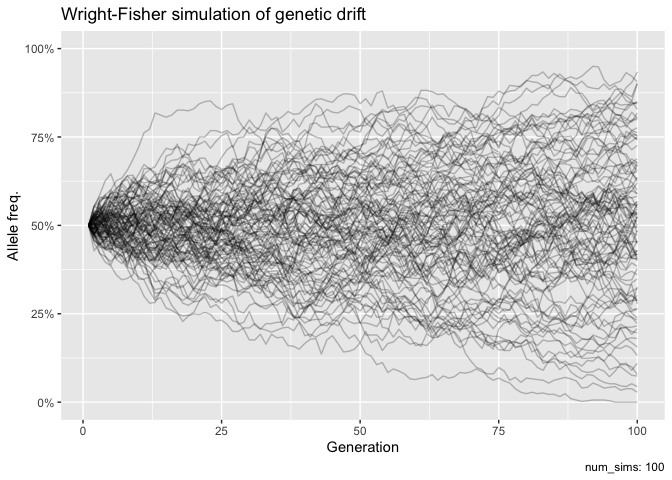
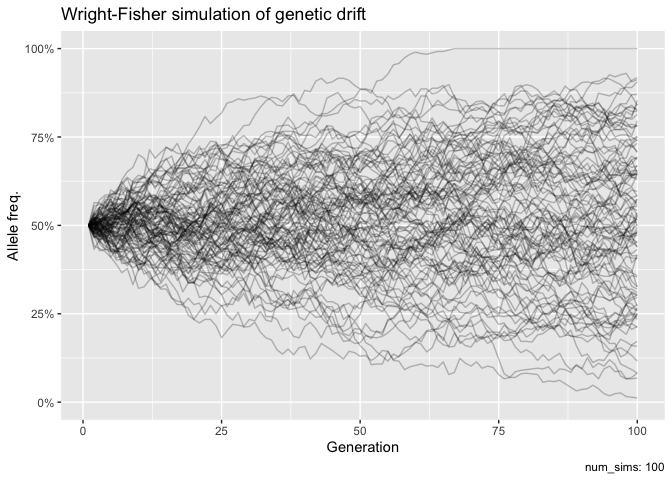
First shiny app

Changed region(s): [[0.125, 0.125, 0.9688, 0.8438], [0.2188, 0.2188, 0.2812, 0.25], [0.625, 0.0938, 0.6562, 0.125]]

diff --git a/README.md b/README.md
@@ -30,15 +30,15 @@ frequency is `0.5`, and `100` generations are produced.
 
 ``` r
 wf_sim()
-#>   [1] 0.500 0.458 0.430 0.440 0.438 0.436 0.424 0.398 0.434 0.418 0.412 0.448
-#>  [13] 0.462 0.440 0.416 0.420 0.414 0.416 0.448 0.438 0.458 0.456 0.444 0.450
-#>  [25] 0.442 0.450 0.452 0.432 0.448 0.480 0.446 0.452 0.466 0.456 0.454 0.420
-#>  [37] 0.440 0.416 0.440 0.420 0.402 0.396 0.456 0.482 0.512 0.514 0.506 0.528
-#>  [49] 0.532 0.538 0.546 0.540 0.526 0.526 0.560 0.546 0.540 0.530 0.528 0.522
-#>  [61] 0.510 0.512 0.510 0.490 0.484 0.528 0.554 0.552 0.540 0.568 0.522 0.614
-#>  [73] 0.626 0.586 0.596 0.574 0.542 0.530 0.520 0.504 0.502 0.532 0.506 0.514
-#>  [85] 0.496 0.480 0.468 0.472 0.488 0.508 0.526 0.516 0.504 0.540 0.530 0.580
-#>  [97] 0.598 0.626 0.598 0.618
+#>   [1] 0.500 0.488 0.502 0.520 0.516 0.522 0.534 0.580 0.600 0.596 0.560 0.582
+#>  [13] 0.580 0.606 0.616 0.618 0.640 0.640 0.664 0.656 0.660 0.654 0.624 0.638
+#>  [25] 0.646 0.624 0.632 0.626 0.604 0.620 0.632 0.618 0.622 0.638 0.640 0.638
+#>  [37] 0.664 0.662 0.640 0.592 0.604 0.610 0.634 0.604 0.592 0.566 0.580 0.596
+#>  [49] 0.572 0.612 0.600 0.580 0.600 0.588 0.604 0.620 0.646 0.648 0.676 0.696
+#>  [61] 0.686 0.668 0.672 0.666 0.648 0.672 0.666 0.698 0.722 0.730 0.762 0.738
+#>  [73] 0.742 0.764 0.754 0.760 0.734 0.760 0.796 0.824 0.838 0.812 0.792 0.802
+#>  [85] 0.792 0.768 0.784 0.758 0.762 0.776 0.808 0.830 0.858 0.848 0.846 0.860
+#>  [97] 0.872 0.890 0.892 0.886
 ```
 
 No mutation rates or selection by default. Mutation can be simulated
@@ -46,15 +46,15 @@ like so:
 
 ``` r
 wf_sim(p = 1/250, mut_to = .8, mut_from = .1)
-#>   [1] 0.004 0.800 0.866 0.878 0.918 0.890 0.908 0.904 0.888 0.872 0.886 0.906
-#>  [13] 0.850 0.866 0.898 0.882 0.894 0.924 0.902 0.882 0.904 0.912 0.890 0.894
-#>  [25] 0.892 0.864 0.880 0.892 0.894 0.902 0.872 0.884 0.894 0.888 0.880 0.890
-#>  [37] 0.886 0.862 0.864 0.886 0.884 0.880 0.884 0.882 0.900 0.886 0.880 0.884
-#>  [49] 0.898 0.892 0.916 0.886 0.868 0.866 0.866 0.908 0.904 0.896 0.890 0.886
-#>  [61] 0.884 0.876 0.902 0.900 0.900 0.870 0.878 0.896 0.864 0.890 0.888 0.874
-#>  [73] 0.874 0.908 0.902 0.888 0.906 0.912 0.892 0.854 0.900 0.914 0.896 0.894
-#>  [85] 0.894 0.910 0.896 0.890 0.906 0.898 0.896 0.880 0.882 0.884 0.876 0.876
-#>  [97] 0.898 0.900 0.888 0.914
+#>   [1] 0.004 0.816 0.892 0.884 0.894 0.908 0.898 0.904 0.884 0.890 0.882 0.896
+#>  [13] 0.898 0.894 0.900 0.896 0.878 0.912 0.894 0.878 0.892 0.892 0.870 0.882
+#>  [25] 0.894 0.910 0.888 0.912 0.882 0.902 0.852 0.884 0.872 0.890 0.890 0.888
+#>  [37] 0.872 0.860 0.876 0.890 0.888 0.908 0.882 0.868 0.900 0.888 0.886 0.886
+#>  [49] 0.902 0.896 0.900 0.888 0.876 0.892 0.878 0.902 0.916 0.896 0.898 0.912
+#>  [61] 0.910 0.880 0.856 0.910 0.896 0.894 0.904 0.852 0.866 0.884 0.876 0.882
+#>  [73] 0.902 0.896 0.906 0.882 0.888 0.898 0.878 0.890 0.888 0.884 0.876 0.884
+#>  [85] 0.922 0.888 0.896 0.902 0.890 0.906 0.890 0.894 0.890 0.886 0.902 0.910
+#>  [97] 0.910 0.916 0.908 0.904
 ```
 
 Selection assumes a diploid organism, and genotype fitness is provided
@@ -63,23 +63,11 @@ for each:
 ``` r
 # Dominant selection for A:
 wf_sim(p = 1/250, fit_aa = .5)
-#>   [1] 0.004 0.008 0.014 0.036 0.050 0.094 0.172 0.238 0.326 0.438 0.502 0.566
-#>  [13] 0.640 0.664 0.654 0.720 0.758 0.774 0.806 0.832 0.832 0.830 0.888 0.890
-#>  [25] 0.894 0.884 0.920 0.930 0.926 0.926 0.930 0.942 0.956 0.970 0.966 0.974
-#>  [37] 0.964 0.964 0.968 0.956 0.970 0.960 0.962 0.966 0.962 0.960 0.958 0.974
-#>  [49] 0.964 0.970 0.972 0.970 0.966 0.966 0.974 0.968 0.968 0.958 0.966 0.956
-#>  [61] 0.942 0.948 0.950 0.952 0.948 0.936 0.938 0.940 0.944 0.942 0.928 0.928
-#>  [73] 0.920 0.926 0.926 0.930 0.938 0.950 0.950 0.954 0.956 0.962 0.952 0.954
-#>  [85] 0.958 0.962 0.972 0.974 0.970 0.980 0.976 0.978 0.980 0.978 0.978 0.978
-#>  [97] 0.988 0.990 0.992 0.992
-
-# Additive selection for A:
-wf_sim(p = 1/250, fit_Aa = .5, fit_aa = .25)
-#>   [1] 0.004 0.014 0.038 0.070 0.160 0.288 0.430 0.584 0.758 0.876 0.926 0.958
-#>  [13] 0.980 0.986 0.996 1.000 1.000 1.000 1.000 1.000 1.000 1.000 1.000 1.000
-#>  [25] 1.000 1.000 1.000 1.000 1.000 1.000 1.000 1.000 1.000 1.000 1.000 1.000
-#>  [37] 1.000 1.000 1.000 1.000 1.000 1.000 1.000 1.000 1.000 1.000 1.000 1.000
-#>  [49] 1.000 1.000 1.000 1.000 1.000 1.000 1.000 1.000 1.000 1.000 1.000 1.000
+#>   [1] 0.004 0.010 0.022 0.036 0.060 0.102 0.182 0.252 0.374 0.474 0.566 0.578
+#>  [13] 0.618 0.730 0.764 0.770 0.804 0.822 0.876 0.878 0.882 0.908 0.914 0.930
+#>  [25] 0.928 0.938 0.934 0.946 0.932 0.936 0.932 0.946 0.936 0.924 0.932 0.952
+#>  [37] 0.948 0.956 0.956 0.960 0.966 0.980 0.990 0.992 0.986 0.992 0.994 0.998
+#>  [49] 0.998 1.000 1.000 1.000 1.000 1.000 1.000 1.000 1.000 1.000 1.000 1.000
 #>  [61] 1.000 1.000 1.000 1.000 1.000 1.000 1.000 1.000 1.000 1.000 1.000 1.000
 #>  [73] 1.000 1.000 1.000 1.000 1.000 1.000 1.000 1.000 1.000 1.000 1.000 1.000
 #>  [85] 1.000 1.000 1.000 1.000 1.000 1.000 1.000 1.000 1.000 1.000 1.000 1.000
@@ -107,4 +95,4 @@ wf_plot(p = 1/250, t = 25, fit_Aa = .5, fit_aa = .25)
 
 ## wf_shiny()
 
-Currently not in this version, but there are plans for a shiny app.
+Run `wf_shiny()` for an interactive app.
